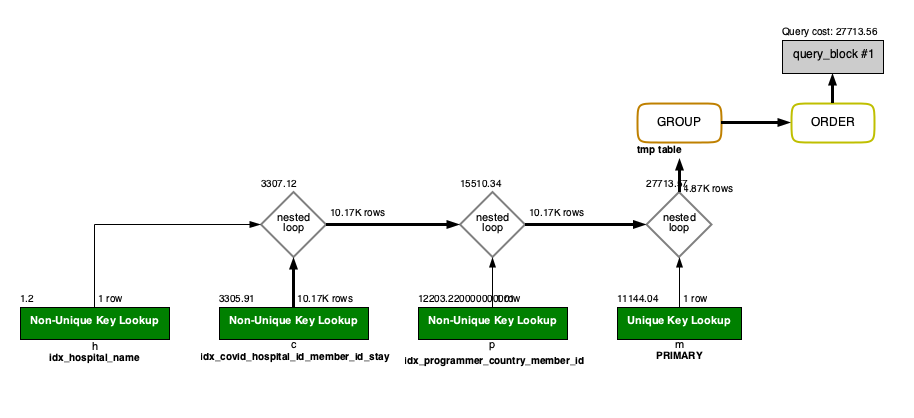
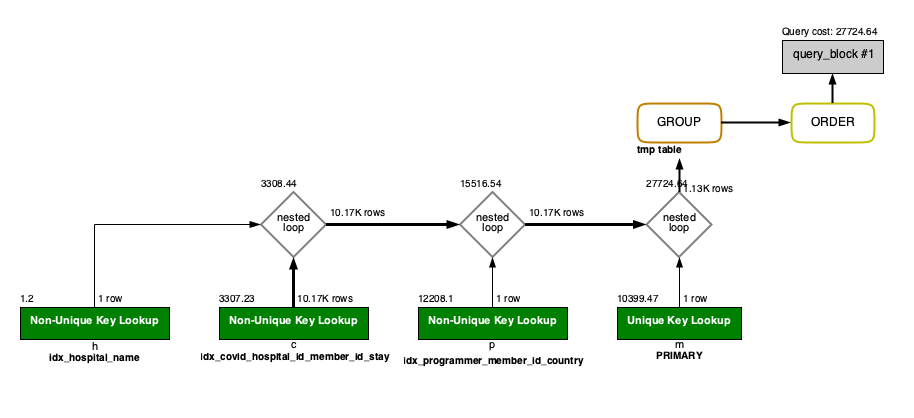
fix(performance) 중복 인덱스 제거

diff --git a/README.md b/README.md
@@ -312,7 +312,7 @@ order by null;
 alter table member add primary key (id);
 create index idx_hospital_name on hospital (name);
 create index idx_covid_hospital_id_member_id_stay on covid (hospital_id, member_id, stay);
-create index idx_programmer_country_member_id on programmer (country, member_id);
+create index idx_programmer_member_id_country on programmer (member_id, country);
 ```
 - [x] (5) 서울대병원에 다닌 30대 환자들을 운동 횟수별로 집계하세요. (user.Exercise)
 - 실행시간
@@ -342,10 +342,7 @@ group by m.exercise
 order by null;
 
 ```
-create index idx_covid_hospital_id_member_id on covid (hospital_id, member_id);
 ```roomsql  
-create index idx_covid_hospital_id_member_id on covid (hospital_id, member_id);
-create index idx_programmer_member_id on programmer (member_id);
 ```
 ---
 
